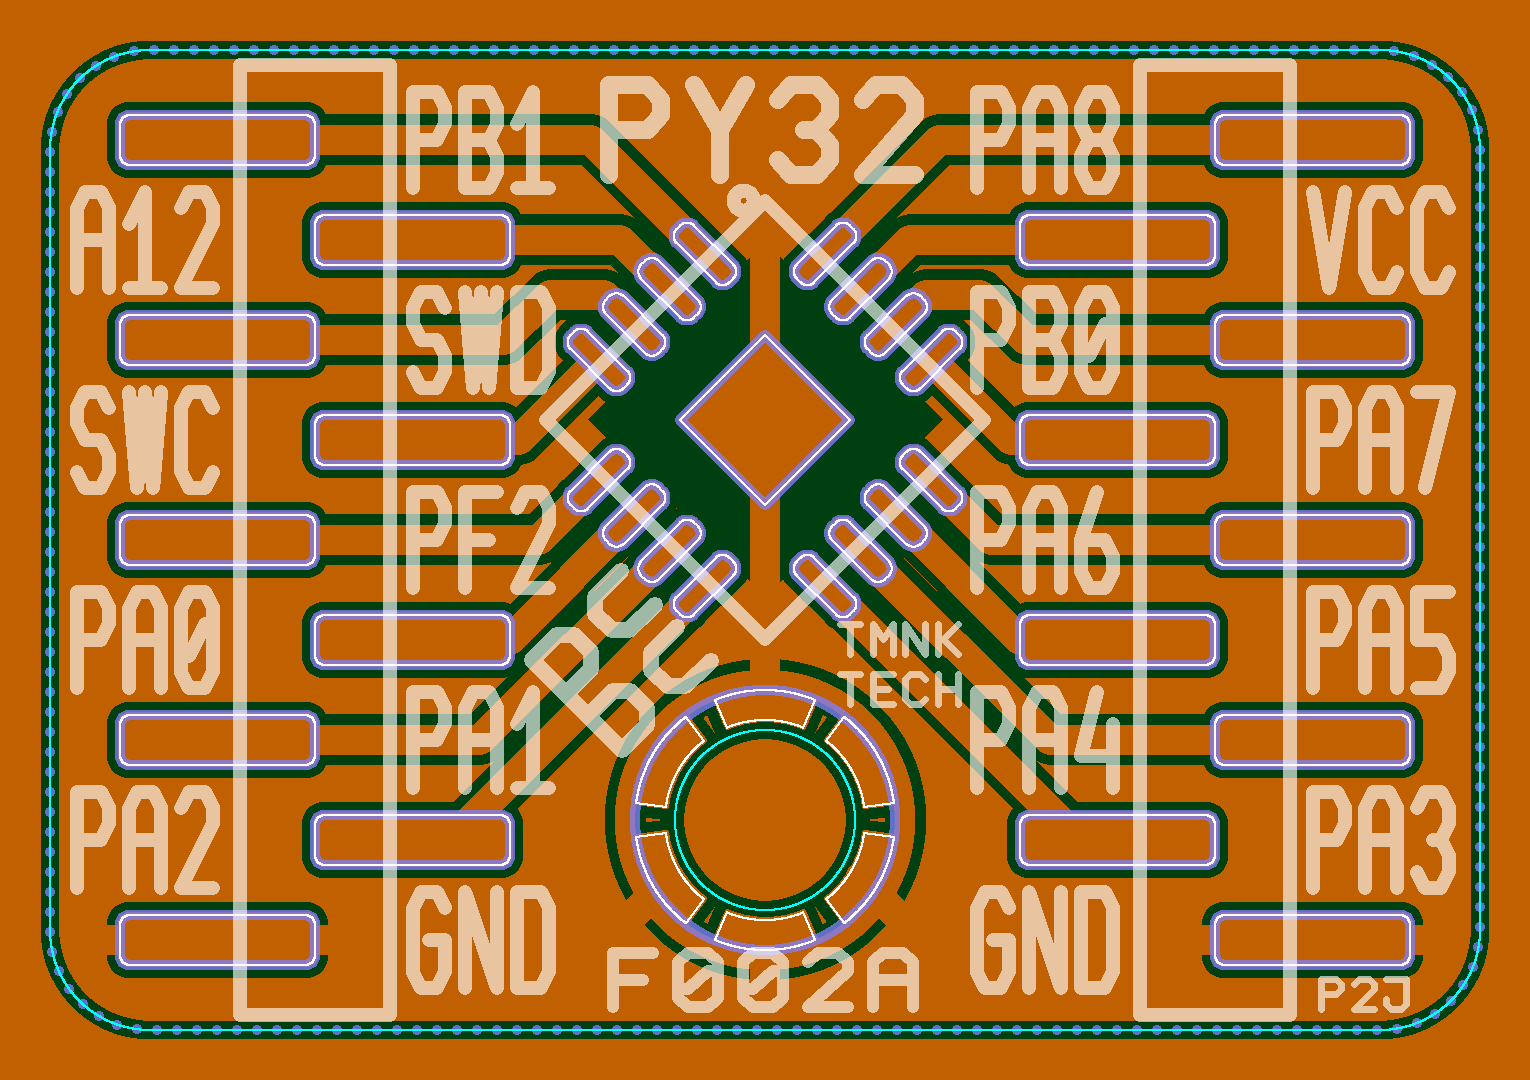
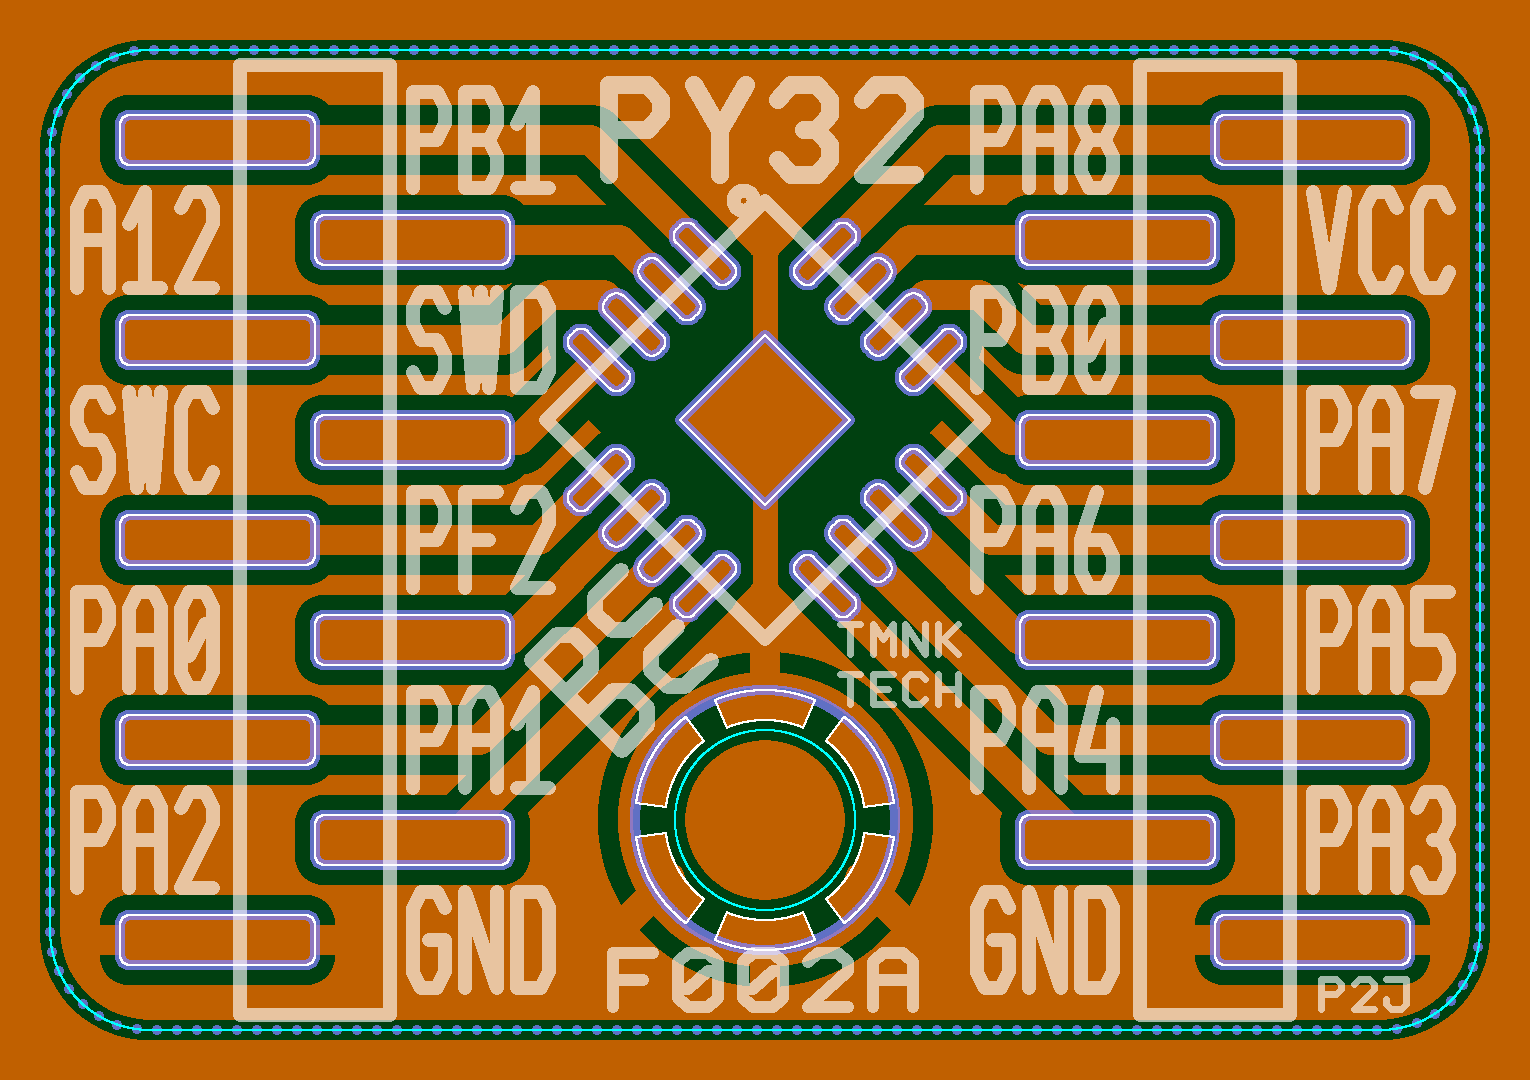
Change test settings

diff --git a/eda/pcbc/puya/qfn16/board_test.go b/eda/pcbc/puya/qfn16/board_test.go
@@ -9,9 +9,10 @@ import (
 )
 
 func TestBoard(t *testing.T) {
+	Board.TrackWidth = 0.3
 	board := pcb.New(Board)
-	//board.ExtraCopperWidth = 0
-	board.CopperClearWidth = 0.18
+	board.ExtraCopperWidth = 0
+	board.CopperClearWidth = 0.2
 	board.SaveEtchOverride = board.SaveEtchPI
 	assert.NoError(t, board.Process().SaveFiles())
 }
